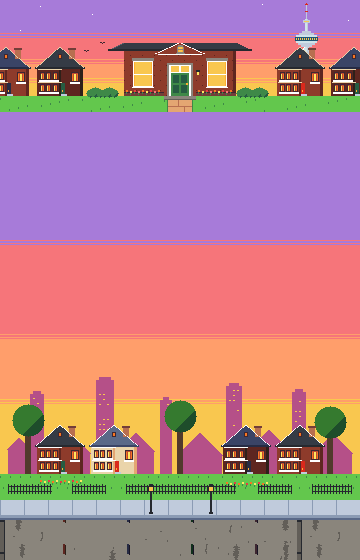
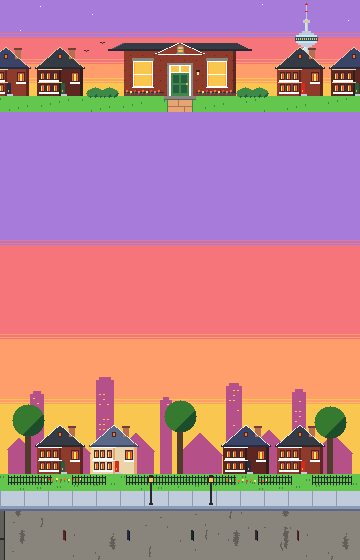
Move the end screen's sidewalk up 9 rows so the button sits on the road with room to bob

Changed region(s): [[0.0, 0.85, 1.0, 1.0]]

diff --git a/art/tools/screens.py b/art/tools/screens.py
@@ -46,8 +46,10 @@ reads on them.
   Cabbagetown's dusk bands (DUSK_SKY) fill the sky twice: behind the house down
   to its lawn, and behind the panel down to the far rooftops and towers in
   mauve (y 450). Then the street's bay-and-gables and canopy trees (from y
-  370), iron fences, the yards, the sidewalk with two heritage lamps and
-  Kensington Market's brick road under the button (48,512 264x44). The houses,
+  370), iron fences, the yards, the sidewalk (rows 491 to 505) with two
+  heritage lamps, the curb, and from END_ROAD (511) Kensington Market's brick
+  road under the button (4,514 352x44), which bobs 1px up, so at least 2 rows of
+  road show above and below it. The houses,
   trees and fences stay within x 8 to 352, so beside the badges panel (8,416
   344x92) the margins show only sky, lawn and sidewalk.
 - screen-loading: a Toronto street at night, shown while the game loads, seen
@@ -750,6 +752,11 @@ NIGHT_SKY = ("navy", "purple", "mauve")
 # ---------- screen-end ----------
 
 END_STREET = 370  # top of the street strip on screen-end
+# The street strip's front yards, the lawn from its row 104; the sidewalk, curb and gutter's 20 rows follow, so
+# the road starts on screen row END_ROAD, 3 rows over the button's top (514) and 2 over its 1px bob
+END_YARD = 17
+END_WALK = 104 + END_YARD  # the strip's first sidewalk row
+END_ROAD = END_STREET + END_WALK + 20
 # Cabbagetown's dusk, top to horizon, as its backdrop: lilac over pink and peach to a gold glow.
 DUSK_SKY = ("lilac", "pink", "peach", "gold")
 END_CN = (306, 96, 4)  # the CN Tower's centre column, foot and mast tip on screen-end
@@ -851,19 +858,22 @@ def end():
     for cx, wall, roof, door in ((60, "brick", "shale", "forest"), (114, "cream", "slate", "ttc"),
                                  (246, "dbrick", "dslate", "navy"), (300, "brick", "shale", "ttc")):
         bd.bay_gable(strip, cx, 46, wall, roof, door, 104, trim="white", curtains="orange")
-    bd.ground(strip)
-    bd.flowers(strip, 40, 84, 110, ("orange", "yellow", "red"))
-    bd.flowers(strip, 226, 270, 112, ("orange", "yellow", "red"))
+    bd.ground(strip, yard=END_YARD)
+    bd.flowers(strip, 40, 84, END_WALK - 13, ("orange", "yellow", "red"))
+    bd.flowers(strip, 226, 270, END_WALK - 12, ("orange", "yellow", "red"))
     for x0, x1 in ((8, 52), (72, 106), (126, 236), (258, 292), (312, 352)):
-        bd.iron_fence(strip, 120, x0, x1)
+        bd.iron_fence(strip, END_WALK - 10, x0, x1)
     for x in (150, 210):
-        bd.gas_lamp(strip, x, 144)
+        bd.gas_lamp(strip, x, END_WALK + 14)
     cv.paste(strip.img, 0, END_STREET)
-    # Kensington Market's brick road, its top rows under the button. The tile's lane dashes (x 64k-1) fall
-    # under the button or off the screen's right edge, so none shows beside it.
+    # Kensington Market's brick road under the button, from the tile's row 5: its lane dashes (rows 0 to 2,
+    # 24 to 34 and 56 to 63, x 64k-1) then fall under the button or off the screen's right edge, and the road's
+    # rows above and below the button show none. The tile's columns 64 to 126 fill the right of the screen, so
+    # its dark left edge (columns 0 to 4) shows only at the screen's left edge.
     tile = sn.TILES[next(z for z, v in sn.ZONES.items() if v["art"] == "kensington-market")]
-    cv.img.paste(tile, (0, END_STREET + 150))
-    cv.img.paste(tile, (W - 63, END_STREET + 150))
+    tile = tile.crop((0, 5, tile.width, 5 + H - END_ROAD))
+    cv.img.paste(tile, (0, END_ROAD))
+    cv.img.paste(tile.crop((64, 0, 127, tile.height)), (W - 63, END_ROAD))
     return cv
 
 

diff --git a/art/tools/backdrops.py b/art/tools/backdrops.py
@@ -188,15 +188,18 @@ def sun(cv, cx, cy, r, col, low=None):
                 cv.fill(cx + dx, cy + dy, 1, 1, col)
 
 
-def ground(cv, lawn="green"):
-    cv.fill(0, 104, W, 26, lawn)
+def ground(cv, lawn="green", yard=26):
+    """The lawn yard rows deep from row 104, then the sidewalk (15 rows, slabs every 24px), the curb and
+    the gutter: 24 rows in all."""
+    cv.fill(0, 104, W, yard, lawn)
     for i in range(70):
-        cv.fill((i * 37) % W, 106 + (i * 11) % 22, 1, 2, dk(lawn))
-    cv.fill(0, 130, W, 15, "lgrey")
+        cv.fill((i * 37) % W, 106 + (i * 11) % (yard - 4), 1, 2, dk(lawn))
+    walk = 104 + yard
+    cv.fill(0, walk, W, 15, "lgrey")
     for x in range(0, W, 24):
-        cv.fill(x, 130, 1, 15, "grey")
-    cv.fill(0, 145, W, 3, "grey")
-    cv.fill(0, 148, W, 2, "slate")
+        cv.fill(x, walk, 1, 15, "grey")
+    cv.fill(0, walk + 15, W, 3, "grey")
+    cv.fill(0, walk + 18, W, 2, "slate")
 
 
 # A house's windows and door: the window frame's offset below the eaves, its width and height,
